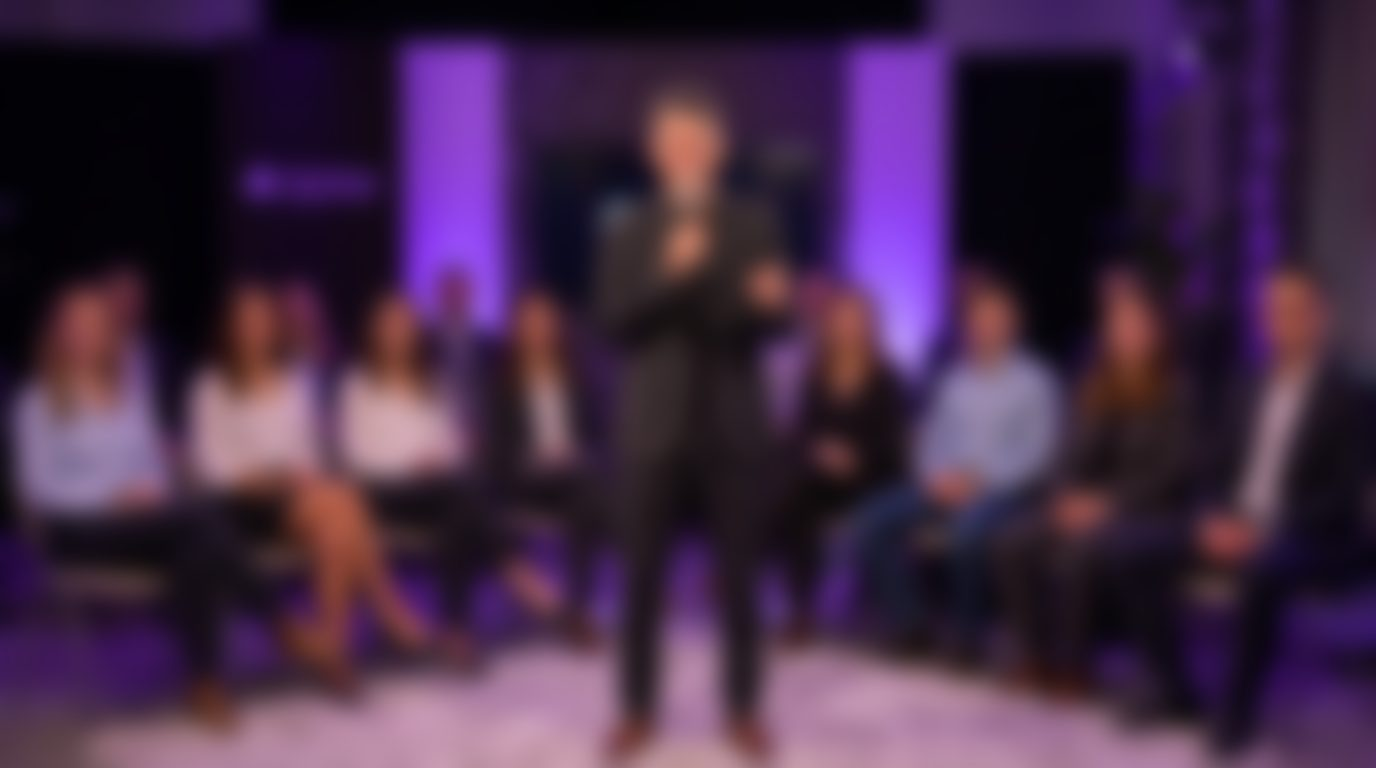
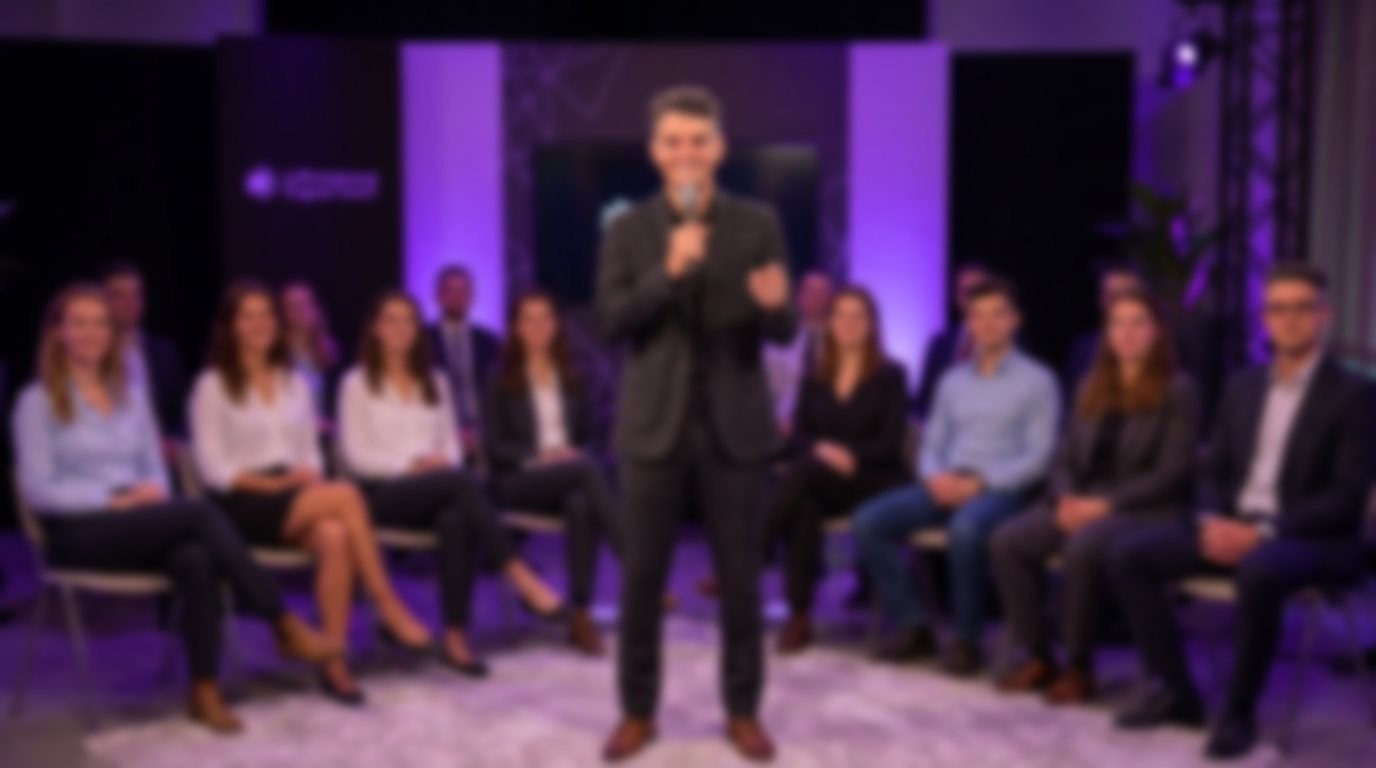
heroes: el velo no se estaba aplicando — ahora va en style, y la foto se ve (#50)
Dos problemas, uno mío y uno de fondo.

═══ 1. El velo NUNCA se aplicó ═══

Subí `from-brand-bg/74 via-brand-bg/86` y Tailwind no generó esas reglas. Las
clases quedaron en el HTML, el CSS no existía. Medido en el navegador contra
producción, que es lo que debí hacer antes de decir que estaba listo:

    conferencias → backgroundImage: "none"                    (sin velo)
    mentoría     → linear-gradient(rgba(..,0.65), rgb(..))    (el via/82 se cayó)

Las opacidades que ya existían en el proyecto (/30, /55, /65) sí funcionan;
las nuevas no se generaron. El hero de Bike & Bed, que usa /55 y /30, sí
tenía su velo — por eso ahí el contraste medido sí era real.

Yo había MEDIDO el contraste sobre una composición que nunca existió en
pantalla. El número estaba bien; el velo no estaba. Verificar el resultado,
no la bandera — y para CSS eso significa el navegador, no la aritmética.

Ahora el velo, el panel y el object-position van en `style` inline. No
dependen de que ningún escaneo encuentre una clase, y los valores quedan a
la vista de quien lea el archivo.

═══ 2. Tapaba la foto entera ═══

Tony: «ese difuminado no se ve nada, o sea era un poquito, no borra todo sino
no tiene sentido». Tenía razón.

Pero el titular lleva un tramo en morado #8B5CF6, luminancia 0,198, que se
pierde sobre tonos medios (un traje gris, una cara iluminada). Con la foto
visible daba 1,0:1 — invisible. Tapar todo lo arregla y mata la foto.
[…]

diff --git a/src/app/(en)/en/mentoring/page.tsx b/src/app/(en)/en/mentoring/page.tsx
@@ -108,39 +108,60 @@ export default function MentoringPage() {
       <JsonLd data={breadcrumbSchema} />
       <JsonLd data={faqSchema} />
 
-      {/* Hero — con foto de negocios difuminada de fondo.
-          Tony la pidió el 21-set-2026 y eligió la de «las personas, sin texto».
+      {/* Hero con foto de fondo.
 
-          Tres decisiones, todas medidas:
+          ⚠ EL VELO Y EL PANEL VAN EN `style`, NO EN CLASES DE TAILWIND.
+          No es capricho. El 21-set-2026 esto se subió con
+          `from-brand-bg/74 via-brand-bg/86` y **Tailwind no generó esas
+          reglas**: las clases quedaron en el HTML pero el CSS no existía.
+          Medido en el navegador, en producción:
 
-          1. El desenfoque va HORNEADO en el archivo, no en CSS. Un `blur()` de
-             CSS se recalcula en cada pintada y deja los bordes transparentes
-             (hay que compensarlo con `scale-110`). Horneado también comprime
-             muchísimo mejor: el PNG original pesaba 1,2 MB y este JPEG pesa 29 kB.
+              conferencias → backgroundImage: "none"          (sin velo)
+              mentoría     → linear-gradient(rgba(..,0.65), rgb(..))
+                              — el `via/82` se cayó en silencio
 
-          2. El velo es FUERTE (65-82%) a propósito. El «con alguien que ya lo
-             hizo» va en morado #8B5CF6, que tiene luminancia 0,198 — o sea que
-             se pierde sobre GRISES MEDIOS (un traje gris, una cara iluminada),
-             no sobre el morado de la foto. Oscurecer empuja los medios al negro
-             y le devuelve contraste. Medido sobre la banda del titular:
-                 velo 62% → 2,62:1  NO llega al mínimo
-                 velo 70% → 3,05:1  justo
-                 velo 78% → 3,55:1  cómodo
-             ⚠ Si alguien quiere ver más la foto y baja el velo, el titular
-             morado se vuelve ilegible. Hay que volver a medir, no tantear.
+          Las opacidades que ya existían en el proyecto (/30, /55, /65) sí
+          funcionan; las nuevas no se generaron. Con `style` no depende de que
+          ningún escaneo encuentre la clase, y los números quedan a la vista.
 
-          3. Recortar la cuña morada de la derecha NO sirvió de nada — se probó
-             y dio exactamente el mismo contraste. Por eso la foto entra entera. */}
+          — Por qué un PANEL y no más velo —
+          Tony, 21-set-2026: «ese difuminado no se ve nada, o sea era un
+          poquito, no borra todo sino no tiene sentido». Tenía razón.
+          Pero el titular lleva un tramo en morado #8B5CF6, luminancia 0,198,
+          que se pierde sobre tonos medios: con la foto visible daba 1,0:1.
+          Tapar toda la foto lo arregla pero mata la foto.
+
+          La salida es separar las dos cosas: velo general flojo (28%%) para
+          que la foto SE VEA, y un panel al 88%% solo detrás del texto.
+          Medido sobre la foto entera:
+
+              velo 28%% + panel 88%%  →  morado 3,9:1   gris 6,6:1
+              (de referencia: el morado sobre el fondo sólido da 4,56:1)
+
+          El desenfoque va horneado en el JPEG (radio 5, suave a propósito).
+          Con radio 12 la foto se perdía; con 4 o menos las caras compiten con
+          el titular. */}
       <section className="relative overflow-hidden bg-brand-bg py-24">
         <Image
           src="/images/tony/tony-mentoria-fondo-difuminado.jpg"
           alt="Tony Alvarado with a group of business owners — business mentoring in Costa Rica"
           fill
-          className="object-cover object-[50%_40%]"
+          className="object-cover"
+          style={{ objectPosition: '50% 40%' }}
           sizes="100vw"
         />
-        <div className="absolute inset-0 bg-gradient-to-b from-brand-bg/65 via-brand-bg/82 to-brand-bg" />
-        <div className="relative z-10 mx-auto max-w-3xl px-6 text-center md:px-12">
+        <div
+          className="absolute inset-0"
+          style={{
+            backgroundImage:
+              'linear-gradient(to bottom, rgba(11,14,20,0.28) 0%, rgba(11,14,20,0.28) 68%, rgb(11,14,20) 100%)',
+          }}
+        />
+        <div
+          className="relative z-10 mx-auto max-w-3xl rounded-3xl px-6 py-10 text-center
+                     backdrop-blur-sm md:px-12"
+          style={{ backgroundColor: 'rgba(11,14,20,0.88)' }}
+        >
           <span className="mb-4 inline-flex items-center gap-2 rounded-full border border-brand-accent/30 bg-brand-card px-4 py-1.5 text-xs font-semibold uppercase tracking-widest text-brand-accent">
             <Compass size={12} /> Business mentoring
           </span>

diff --git a/src/app/(en)/en/speaking/page.tsx b/src/app/(en)/en/speaking/page.tsx
@@ -173,38 +173,60 @@ export default function EnSpeakingPage() {
       <JsonLd data={faqSchemaEn} />
 
       {/* ── Hero ── */}
-      {/* Hero — con foto de conferencia difuminada de fondo.
-          Tony la eligió el 21-set-2026. Mismo tratamiento que /mentoria.
+      {/* Hero con foto de fondo.
 
-          Tres cosas que hay que saber antes de tocar esto:
+          ⚠ EL VELO Y EL PANEL VAN EN `style`, NO EN CLASES DE TAILWIND.
+          No es capricho. El 21-set-2026 esto se subió con
+          `from-brand-bg/74 via-brand-bg/86` y **Tailwind no generó esas
+          reglas**: las clases quedaron en el HTML pero el CSS no existía.
+          Medido en el navegador, en producción:
 
-          1. El velo es MÁS FUERTE acá (74-86%) que en mentoría (65-82%), y no
-             por gusto: esta foto es un escenario iluminado con gente de camisa
-             clara, mucho más brillante. Medido sobre la banda del titular:
-                 velo 70% → morado 2,60:1  NO llega
-                 velo 78% → morado 3,19:1  llega
-             El «Habla desde los que construyó» va en morado #8B5CF6, que tiene
-             luminancia 0,198 y se pierde sobre tonos medios. Bajar el velo para
-             «ver mejor la foto» deja el titular ilegible.
+              conferencias → backgroundImage: "none"          (sin velo)
+              mentoría     → linear-gradient(rgba(..,0.65), rgb(..))
+                              — el `via/82` se cayó en silencio
 
-          2. La foto original trae TEXTO FALSO de IA en un cartel del fondo
-             («Lalkergoong Fogoar onirt»). Con este desenfoque y este velo
-             desaparece por completo — se comprobó recortando esa zona y
-             aplicándole el tratamiento. ⚠ Si alguien sube la nitidez o baja el
-             velo, esa basura vuelve a aparecer.
+          Las opacidades que ya existían en el proyecto (/30, /55, /65) sí
+          funcionan; las nuevas no se generaron. Con `style` no depende de que
+          ningún escaneo encuentre la clase, y los números quedan a la vista.
 
-          3. El desenfoque va horneado en el JPEG, no en CSS: el PNG pesaba
-             1,5 MB y este archivo pesa 49 kB. */}
+          — Por qué un PANEL y no más velo —
+          Tony, 21-set-2026: «ese difuminado no se ve nada, o sea era un
+          poquito, no borra todo sino no tiene sentido». Tenía razón.
+          Pero el titular lleva un tramo en morado #8B5CF6, luminancia 0,198,
+          que se pierde sobre tonos medios: con la foto visible daba 1,0:1.
+          Tapar toda la foto lo arregla pero mata la foto.
+
+          La salida es separar las dos cosas: velo general flojo (28%%) para
+          que la foto SE VEA, y un panel al 88%% solo detrás del texto.
+          Medido sobre la foto entera:
+
+              velo 28%% + panel 88%%  →  morado 3,9:1   gris 6,6:1
+              (de referencia: el morado sobre el fondo sólido da 4,56:1)
+
+          El desenfoque va horneado en el JPEG (radio 5, suave a propósito).
+          Con radio 12 la foto se perdía; con 4 o menos las caras compiten con
+          el titular. */}
       <section className="relative overflow-hidden bg-brand-bg py-24">
         <Image
           src="/images/tony/tony-conferencias-fondo-difuminado.jpg"
           alt="Tony Alvarado speaking to a seated audience under stage lighting"
           fill
-          className="object-cover object-[50%_35%]"
+          className="object-cover"
+          style={{ objectPosition: '50% 35%' }}
           sizes="100vw"
         />
-        <div className="absolute inset-0 bg-gradient-to-b from-brand-bg/74 via-brand-bg/86 to-brand-bg" />
-        <div className="relative z-10 mx-auto max-w-3xl px-6 text-center md:px-12">
+        <div
+          className="absolute inset-0"
+          style={{
+            backgroundImage:
+              'linear-gradient(to bottom, rgba(11,14,20,0.28) 0%, rgba(11,14,20,0.28) 68%, rgb(11,14,20) 100%)',
+          }}
+        />
+        <div
+          className="relative z-10 mx-auto max-w-3xl rounded-3xl px-6 py-10 text-center
+                     backdrop-blur-sm md:px-12"
+          style={{ backgroundColor: 'rgba(11,14,20,0.88)' }}
+        >
           <span className="mb-4 inline-flex items-center gap-2 rounded-full border border-brand-accent/30 bg-brand-card px-4 py-1.5 text-xs font-semibold uppercase tracking-widest text-brand-accent">
             <Mic size={12} /> Speaking &amp; Conferences
           </span>

diff --git a/src/app/(es)/mentoria/page.tsx b/src/app/(es)/mentoria/page.tsx
@@ -128,7 +128,39 @@ export default function MentoriaPage() {
       <JsonLd data={breadcrumbSchema} />
       <JsonLd data={faqSchema} />
 
-      {/* Hero */}
+      {/* Hero con foto de fondo.
+
+          ⚠ EL VELO Y EL PANEL VAN EN `style`, NO EN CLASES DE TAILWIND.
+          No es capricho. El 21-set-2026 esto se subió con
+          `from-brand-bg/74 via-brand-bg/86` y **Tailwind no generó esas
+          reglas**: las clases quedaron en el HTML pero el CSS no existía.
+          Medido en el navegador, en producción:
+
+              conferencias → backgroundImage: "none"          (sin velo)
+              mentoría     → linear-gradient(rgba(..,0.65), rgb(..))
+                              — el `via/82` se cayó en silencio
+
+          Las opacidades que ya existían en el proyecto (/30, /55, /65) sí
+          funcionan; las nuevas no se generaron. Con `style` no depende de que
+          ningún escaneo encuentre la clase, y los números quedan a la vista.
+
+          — Por qué un PANEL y no más velo —
+          Tony, 21-set-2026: «ese difuminado no se ve nada, o sea era un
+          poquito, no borra todo sino no tiene sentido». Tenía razón.
+          Pero el titular lleva un tramo en morado #8B5CF6, luminancia 0,198,
+          que se pierde sobre tonos medios: con la foto visible daba 1,0:1.
+          Tapar toda la foto lo arregla pero mata la foto.
+
+          La salida es separar las dos cosas: velo general flojo (28%%) para
+          que la foto SE VEA, y un panel al 88%% solo detrás del texto.
+          Medido sobre la foto entera:
+
+              velo 28%% + panel 88%%  →  morado 3,9:1   gris 6,6:1
+              (de referencia: el morado sobre el fondo sólido da 4,56:1)
+
+          El desenfoque va horneado en el JPEG (radio 5, suave a propósito).
+          Con radio 12 la foto se perdía; con 4 o menos las caras compiten con
+          el titular. */}
       {/* Hero — con foto de negocios difuminada de fondo.
           Tony la pidió el 21-set-2026 y eligió la de «las personas, sin texto».
 
@@ -157,11 +189,22 @@ export default function MentoriaPage() {
           src="/images/tony/tony-mentoria-fondo-difuminado.jpg"
           alt="Tony Alvarado con un grupo de empresarios — mentoría empresarial en Costa Rica"
           fill
-          className="object-cover object-[50%_40%]"
+          className="object-cover"
+          style={{ objectPosition: '50% 40%' }}
           sizes="100vw"
         />
-        <div className="absolute inset-0 bg-gradient-to-b from-brand-bg/65 via-brand-bg/82 to-brand-bg" />
-        <div className="relative z-10 mx-auto max-w-3xl px-6 text-center md:px-12">
+        <div
+          className="absolute inset-0"
+          style={{
+            backgroundImage:
+              'linear-gradient(to bottom, rgba(11,14,20,0.28) 0%, rgba(11,14,20,0.28) 68%, rgb(11,14,20) 100%)',
+          }}
+        />
+        <div
+          className="relative z-10 mx-auto max-w-3xl rounded-3xl px-6 py-10 text-center
+                     backdrop-blur-sm md:px-12"
+          style={{ backgroundColor: 'rgba(11,14,20,0.88)' }}
+        >
           <span className="mb-4 inline-flex items-center gap-2 rounded-full border border-brand-accent/30 bg-brand-card px-4 py-1.5 text-xs font-semibold uppercase tracking-widest text-brand-accent">
             <Compass size={12} /> Mentoría empresarial
           </span>

diff --git a/src/app/(es)/conferencias/page.tsx b/src/app/(es)/conferencias/page.tsx
@@ -166,7 +166,39 @@ export default function ConferenciasPage() {
       <JsonLd data={breadcrumbSchema} />
       <JsonLd data={faqSchema} />
 
-      {/* Hero */}
+      {/* Hero con foto de fondo.
+
+          ⚠ EL VELO Y EL PANEL VAN EN `style`, NO EN CLASES DE TAILWIND.
+          No es capricho. El 21-set-2026 esto se subió con
+          `from-brand-bg/74 via-brand-bg/86` y **Tailwind no generó esas
+          reglas**: las clases quedaron en el HTML pero el CSS no existía.
+          Medido en el navegador, en producción:
+
+              conferencias → backgroundImage: "none"          (sin velo)
+              mentoría     → linear-gradient(rgba(..,0.65), rgb(..))
+                              — el `via/82` se cayó en silencio
+
+          Las opacidades que ya existían en el proyecto (/30, /55, /65) sí
+          funcionan; las nuevas no se generaron. Con `style` no depende de que
+          ningún escaneo encuentre la clase, y los números quedan a la vista.
+
+          — Por qué un PANEL y no más velo —
+          Tony, 21-set-2026: «ese difuminado no se ve nada, o sea era un
+          poquito, no borra todo sino no tiene sentido». Tenía razón.
+          Pero el titular lleva un tramo en morado #8B5CF6, luminancia 0,198,
+          que se pierde sobre tonos medios: con la foto visible daba 1,0:1.
+          Tapar toda la foto lo arregla pero mata la foto.
+
+          La salida es separar las dos cosas: velo general flojo (28%%) para
+          que la foto SE VEA, y un panel al 88%% solo detrás del texto.
+          Medido sobre la foto entera:
+
+              velo 28%% + panel 88%%  →  morado 3,9:1   gris 6,6:1
+              (de referencia: el morado sobre el fondo sólido da 4,56:1)
+
+          El desenfoque va horneado en el JPEG (radio 5, suave a propósito).
+          Con radio 12 la foto se perdía; con 4 o menos las caras compiten con
+          el titular. */}
       {/* Hero — con foto de conferencia difuminada de fondo.
           Tony la eligió el 21-set-2026. Mismo tratamiento que /mentoria.
 
@@ -194,11 +226,22 @@ export default function ConferenciasPage() {
           src="/images/tony/tony-conferencias-fondo-difuminado.jpg"
           alt="Conferencia de Tony Alvarado ante un público sentado, con iluminación de escenario"
           fill
-          className="object-cover object-[50%_35%]"
+          className="object-cover"
+          style={{ objectPosition: '50% 35%' }}
           sizes="100vw"
         />
-        <div className="absolute inset-0 bg-gradient-to-b from-brand-bg/74 via-brand-bg/86 to-brand-bg" />
-        <div className="relative z-10 mx-auto max-w-3xl px-6 text-center md:px-12">
+        <div
+          className="absolute inset-0"
+          style={{
+            backgroundImage:
+              'linear-gradient(to bottom, rgba(11,14,20,0.28) 0%, rgba(11,14,20,0.28) 68%, rgb(11,14,20) 100%)',
+          }}
+        />
+        <div
+          className="relative z-10 mx-auto max-w-3xl rounded-3xl px-6 py-10 text-center
+                     backdrop-blur-sm md:px-12"
+          style={{ backgroundColor: 'rgba(11,14,20,0.88)' }}
+        >
           <span className="mb-4 inline-flex items-center gap-2 rounded-full border border-brand-accent/30 bg-brand-card px-4 py-1.5 text-xs font-semibold uppercase tracking-widest text-brand-accent">
             <Mic size={12} /> Conferencias
           </span>
